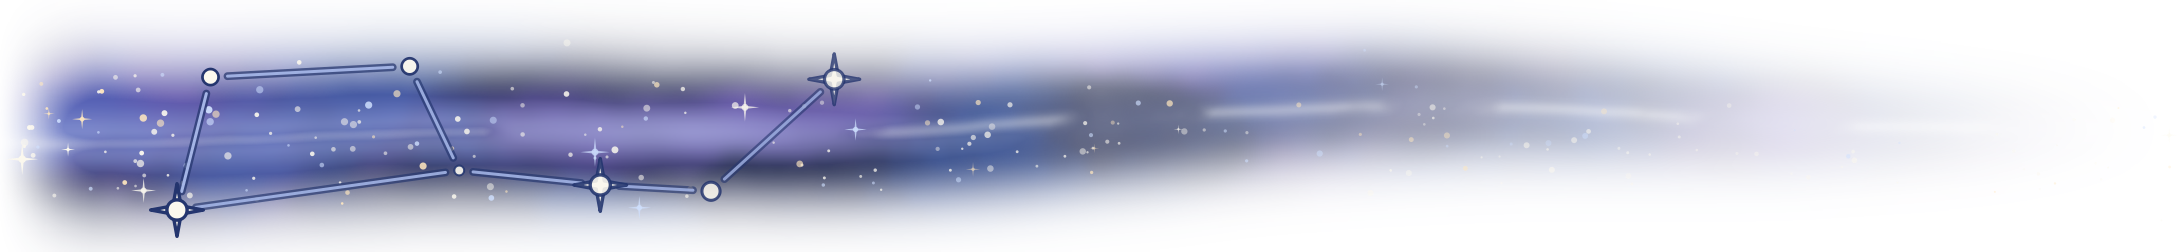
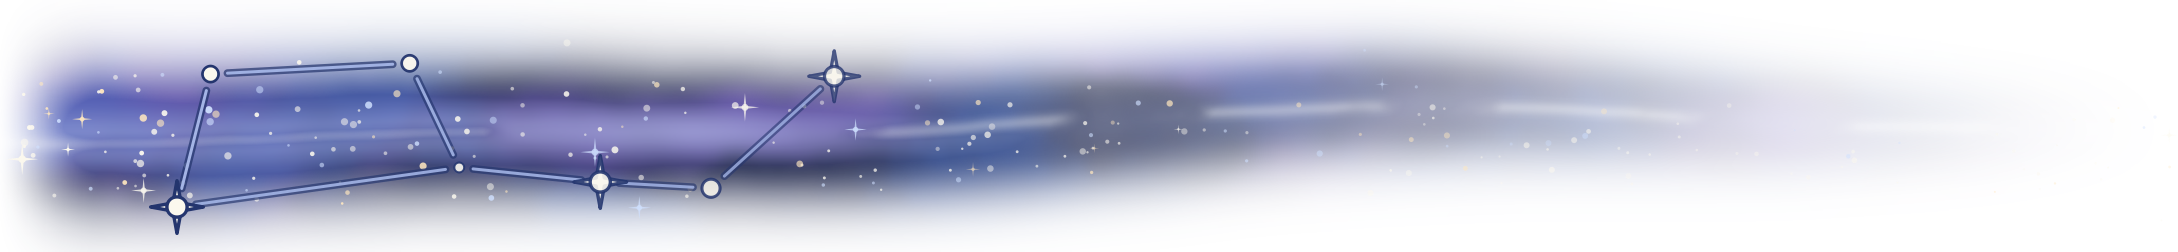
星夜蓝主题窗口点缀：上边的银河光带与北斗七星往下挪，贴住并略压窗口上边框

diff --git a/dstools/qt/ornaments.py b/dstools/qt/ornaments.py
@@ -93,7 +93,7 @@ _SPRITES: dict[str, tuple[Sprite, ...]] = {
     "twilight": (
         # 星夜蓝，排版脚本 twilight/compose_twilight.py。沿上边框向右、沿左边框向下各一道银河光带，
         # 越远越淡，光带里撒满小星，北斗七星、仙后座（按真实星位）叠在上面；左边光带紧贴外框线
-        Sprite("twilight_spray_right.png", 0, 0, 396, -42, 84),
+        Sprite("twilight_spray_right.png", 0, 0, 396, -30, 84),
         Sprite("twilight_spray_down.png", 0, 0, -29, 318.5, 533),
         # 左上主角：一轮真实月面（NASA 月面贴图渲染）的盈凸月带月晕，前后两团月光镶边的夜云，
         # 周围几道小流星；压住标题开头
